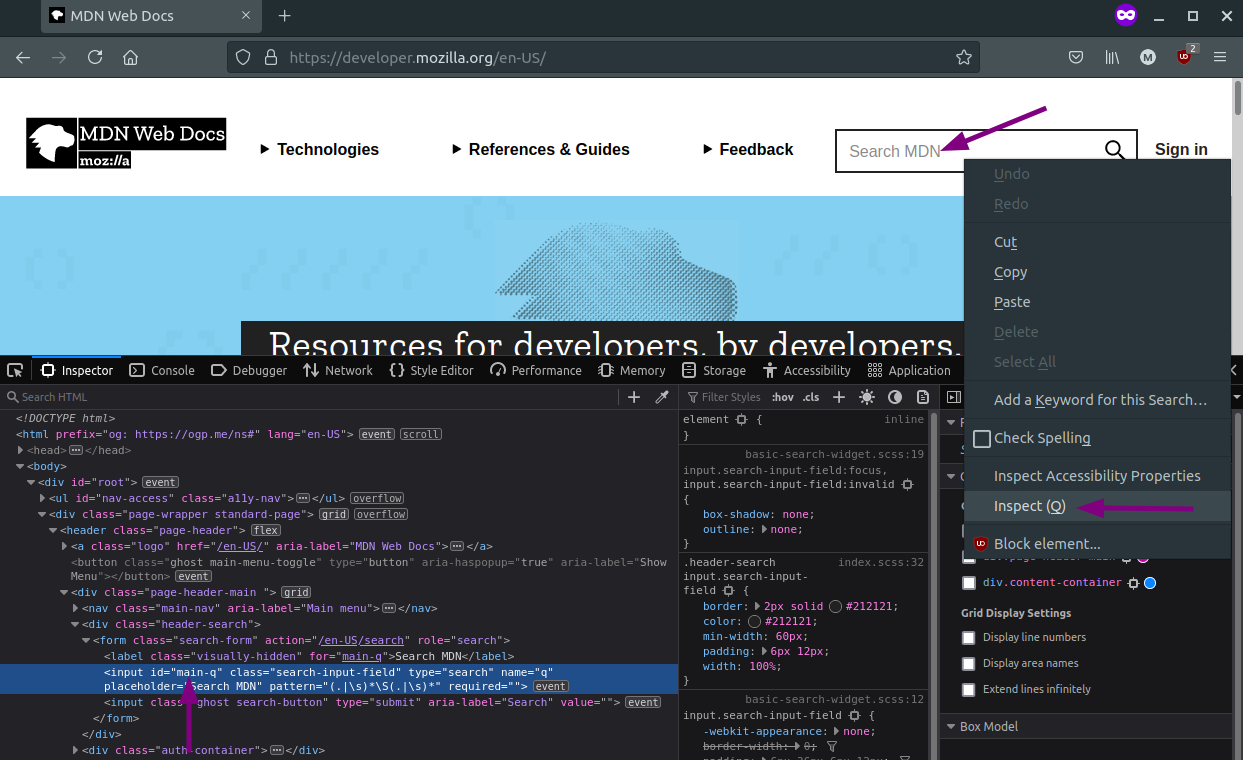
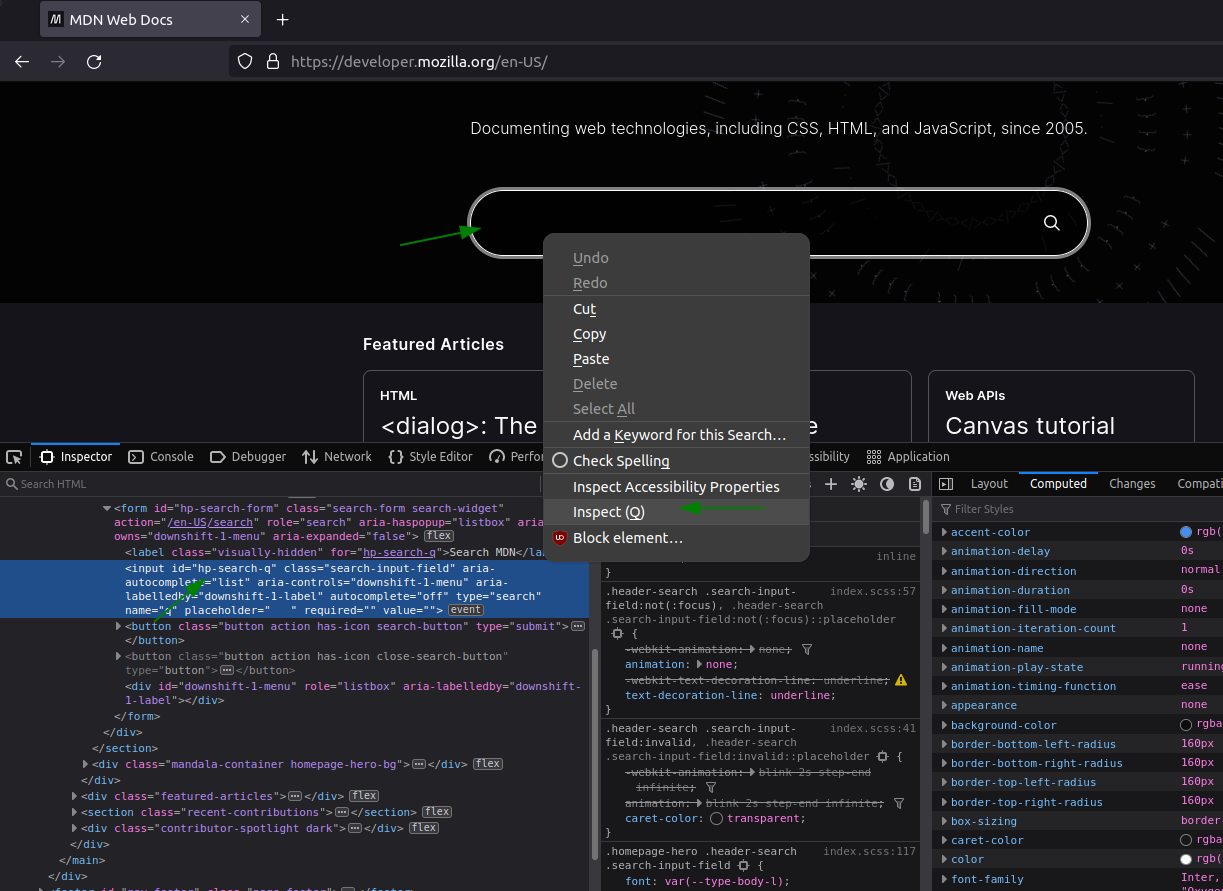
Update smashtest tutorial to match new MDN redesign

diff --git a/_posts/2021-06-19-smashtest-tutorial.md b/_posts/2021-06-19-smashtest-tutorial.md
@@ -305,15 +305,12 @@ For a list of config that can go in `smashtest.json`, see [command-line options]
 
 # A more involved test on MDN
 
-Due to Mozilla MDN's recent redesign, these steps will not work.  I will look to adjust these steps for the new layout. 
-{: .notice--warning}
-
 The most important skill to learn when writing Smashtests is telling it how to find the element you're interested in.  
 
 Some elements will be easy to find, they'll have a unique `id`.    
 Some elements will be nested deep inside layers of `div`s or in very dynamic SPAs.  
 
-In this next test, you'll go to Mozilla's MDN web docs, search for the `splice()` function, click the first result, and then change the page's language to Deutsch. This should cover a few different ways of finding elements. 
+In this next test, you'll go to Mozilla's MDN web docs, search for the `array` object, click the first result, and then change the page's language to Deutsch. This should cover a few different ways of finding elements. 
 
 Due to the nature of the web, these steps may become invalidated in a few years if MDN ever changes.  
 The screenshots should still illustrate the concepts of finding elements.  
@@ -322,7 +319,7 @@ The screenshots should still illustrate the concepts of finding elements.
 
 ## Perform a search
 
-To begin, open up [https://developer.mozilla.org](https://developer.mozilla.org) in your own browser.  Right click the 'Search MDN' textbox and inspect element.  
+To begin, open up [https://developer.mozilla.org](https://developer.mozilla.org) in your own browser.  Right click the main search textbox and inspect element.  
 Right away, the `id` of that input field is an obvious candidate to use.  
 
 [![inspect element]({{ site.baseurl }}/assets/images/smashtest-tutorial/005.png)]({{ site.baseurl }}/assets/images/smashtest-tutorial/005.png)
@@ -335,14 +332,16 @@ Open Firefox
 
     Navigate to 'https://developer.mozilla.org/'
 
-        $ Type 'splice[enter]' into '#main-q'
+        $ Type 'array' into '#hp-search-q'
+
+            Wait '5' secs
 ```
 
-This should successfully you to the search results page.  
+This should open MDN, type 'array' and a dropdown of search results should appear. 
 
 ## Click the first search result
 
-The next objective is to click the first link on the search results page. 
+The next objective is to click the first link in the search results dropdown. 
 
 In your `mdn.smash`: 
 
@@ -351,39 +350,27 @@ Open Firefox
 
     Navigate to 'https://developer.mozilla.org/'
 
-        ~ Type 'splice[enter]' into '#main-q'
+        ~ Type 'array' into '#hp-search-q'
 ```        
 
-Use the `~` modifier to go into interactive mode.  Press enter so that you get to the search results page.  
+Use the `~` modifier to go into interactive mode.  Press enter in the console so that Smashtest proceeds to the next step, and the search results dropdown appears. 
 
 Right click and inspect the first search result, as expected there isn't anything unique that marks it from the others.    
 
 [![inspect element]({{ site.baseurl }}/assets/images/smashtest-tutorial/006.png)]({{ site.baseurl }}/assets/images/smashtest-tutorial/006.png)
 
-You could type, 
 
-```
-Click 'h3'
-```
-
-And the browser will go to the correct page.  But `h3`, is far too generic to use; clicking the first `h3` could easily produce unexpected results in the future.  
-
-Go back to the search results page and try something else.  
-
-```
-Go Back
-```
 
 ### Picking useful selectors
 
-Notice that each link is inside a list, which is inside a `div` with `class=search-results`. 
+Notice that all the results are under a `div` with `class=search-results`.  And each item has a `class=result-item`
 
-That means a possible selector is `div.search-results h3`.  
+That means a possible selector is `div.search-results .result-item`.  
 
 Although this will match _every_ search result link, by default Smashtest will match against the first one.  To see for yourself, switch to the Console of developer tools, and type this
 
 ```
-document.querySelector("div.search-results h3");
+document.querySelector('div.search-results .result-item')
 ```
 
 The first search result gets highlighted.  That's pretty much the same behavior as Smashtest's.    
@@ -393,7 +380,7 @@ The first search result gets highlighted.  That's pretty much the same behavior 
 Now that you've found a good selector to use, try it in the terminal.  Entering just a selector will let you know if Smashtest was able to find it. 
 
 ```
-'div.search-results h3'
+'div.search-results .result-item'
 ```
 
 Found it:
@@ -406,24 +393,24 @@ Now that you know Smashtest can work with it, get Smashtest to click it.
 
 
 ```
-Click 'div.search-results h3'
+Click 'div.search-results .result-item'
 ```
 
-That should take you to the splice() documentation page.  Enter `x` to exit, and add it to your `mdn.smash`:
+That should take you to the Array documentation page.  Enter `x` to exit, and add it to your `mdn.smash`:
 
 ```
 Open Firefox
 
     Navigate to 'https://developer.mozilla.org/'
 
-        Type 'splice[enter]' into '#main-q'
+        Type 'array' into '#hp-search-q'
 
-            $ Click 'div.search-results h3'
+            $ Click 'div.search-results .result-item'
 ```
 
 ### Give selectors a friendly, readable name
 
-The selector `'div.search-results h3'` is not very readable, and neither is `'#main-q'`.  Smashtest has a feature called `props` which lets you map readable names to CSS selectors.  
+The selector `'div.search-results .result-item'` is not very readable, and neither is `'#hp-search-q'`.  Smashtest has a feature called `props` which lets you map readable names to CSS selectors.  
 
 Props are just another step in the test branch, and are just 'lookups', so they can go anywhere in the steps.  The `mdn.smash` can be rewritten like this, try running it: 
 
@@ -434,12 +421,12 @@ Open Firefox
 
         On MDN {
             props({
-                'Search box': `#main-q`,
-                'Search Result Link': `div.search-results h3`
+                'Search box': `#hp-search-q`,
+                'Search Result Link': `div.search-results .result-item`
             })
         }
 
-            Type 'splice[enter]' into 'Search box'
+            Type 'array' into 'Search box'
 
                 $ Click '1st Search Result Link'
 ```
@@ -461,32 +448,32 @@ Open Firefox
 
         On MDN {
             props({
-                'Search box': `#main-q`,
-                'Search Result Link': `div.search-results h3`
+                'Search box': `#hp-search-q`,
+                'Search Result Link': `div.search-results .result-item`
             })
         }
 
-            Type 'splice[enter]' into 'Search box'
+            Type 'array' into 'Search box'
 
                 ~ Click '1st Search Result Link'
 ```
 
-Run it with `npx smashtest` and press Enter to get to the documentation page. Right click the 'Change language' link in the top right, and inspect element.  
+Run it with `npx smashtest` and press Enter in the console to get to the documentation page. Right click the 'English' menu in the top right, and inspect element.  
 
 [![inspect element]({{ site.baseurl }}/assets/images/smashtest-tutorial/008.png)]({{ site.baseurl }}/assets/images/smashtest-tutorial/008.png)
 
-It's a simple `span` with the words `Change language` in it.  In the terminal, try:
+It's a simple `span` with the word `English` in it.  In the terminal, try:
 
 ```
-[span, 'Change language']
+[span, 'English']
 ```
 
-And that should work, it basically means, look for any `span` element on the page, with the inner text 'Change language'. 
+And that should work, it basically means, look for any `span` element on the page, with the inner text 'Change language', even if that inner text is nested. 
 
 But if you try it without any element, that will work too:
 
 ```
-['Change language']
+['English']
 ```
 
 This syntax means, look for _any_ element on the page, with the inner text 'Change language'.  In other words, it's a useful shortcut for strings that you know are unique on a page. 
@@ -494,29 +481,23 @@ This syntax means, look for _any_ element on the page, with the inner text 'Chan
 Proceed by clicking it. 
 
 ```
-Click ['Change language']
+Click ['English']
 ```
 
-The page scrolls to the the bottom, where there is a dropdown. Inspecting the dropdown reveals that it has a unique id, and a list of `option`s to choose from.  
+A dropdown with a list of languages appears. Inspecting the dropdown reveals that it has a unique class, `.language-menu` and contains a list of `li` and `button` with the languages to choose from.  
 
 [![inspect element]({{ site.baseurl }}/assets/images/smashtest-tutorial/009.png)]({{ site.baseurl }}/assets/images/smashtest-tutorial/009.png)
 
 In terminal, try:
 
 ```
-'#language-selector option'
+'.language-menu li' 
 ```
 
-This is going to match multiple values, but the requirement is to be more specific.  Use the `value` of the `option`. 
+This is going to match multiple values, and could probably work, but the requirement is to be more specific.  Let's try the `button` directly, which contains a `name` attribute. 
 
 ```
-Click '#language-selector option[value="de"]'
-```
-
-And finally, click the 'Change language' button. 
-
-```
-Click [button, 'Change language']
+Click '.language-menu button[name="de"]'
 ```
 
 That should be enough to update our `mdn.smash`.  Also from previous experience, the selector for Deutsch doesn't look very readable, so give it a prop.  
@@ -529,21 +510,19 @@ Open Firefox
 
         On MDN {
             props({
-                'Search box': `#main-q`,
-                'Search Result Link': `div.search-results h3`,
-                'German language option': `#language-selector option[value="de"]`
+                'Search box': `#hp-search-q`,
+                'Search Result Link': `div.search-results .result-item`,
+                'German language option': `.language-menu button[name="de"]`
             })
         }
 
-            Type 'splice[enter]' into 'Search box'
+            Type 'array' into 'Search box'
 
                 Click '1st Search Result Link'
 
-                    Click ['Change language']
+                    Click ['English']
 
-                        Click 'German language option'
-
-                            $ Click [button, 'Change language'] 
+                        $ Click 'German language option'
 ```
 
 Taking it even further, those finders in square brackets can also be converted to props.  Square brackets become backticks.  
@@ -555,23 +534,21 @@ Open Firefox
 
         On MDN {
             props({
-                'Search box': `#main-q`,
-                'Search Result Link': `div.search-results h3`,
-                'Change Language Link': `'Change language'`,
-                'German language option': `#language-selector option[value="de"]`,
-                'Change Language Button': `button, 'Change language'`
+                'Search box': `#hp-search-q`,
+                'Search Result Link': `div.search-results .result-item`,
+                'German language option': `.language-menu button[name="de"]`,
+                'Change language button': `'English'`
             })
         }
 
-            Type 'splice[enter]' into 'Search box'
+            Type 'array' into 'Search box'
 
                 Click '1st Search Result Link'
 
-                    Click 'Change Language Link'
+                    Click 'Change language button'
 
-                        Click 'German language option'
+                        $ Click 'German language option'
 
-                            $ Click 'Change Language Button'
 ```
 
 

diff --git a/_drafts/2022-03-13-linux-compose-keys-special-characters.md b/_drafts/2022-03-13-linux-compose-keys-special-characters.md
@@ -1,5 +1,5 @@
 ---
-title: "Easily typing special characters using compose keys"
+title: "Easily type special characters using compose keys"
 description: ""
 
 categories: 
@@ -11,3 +11,4 @@ tags:
   - linux
 
 ---
+
